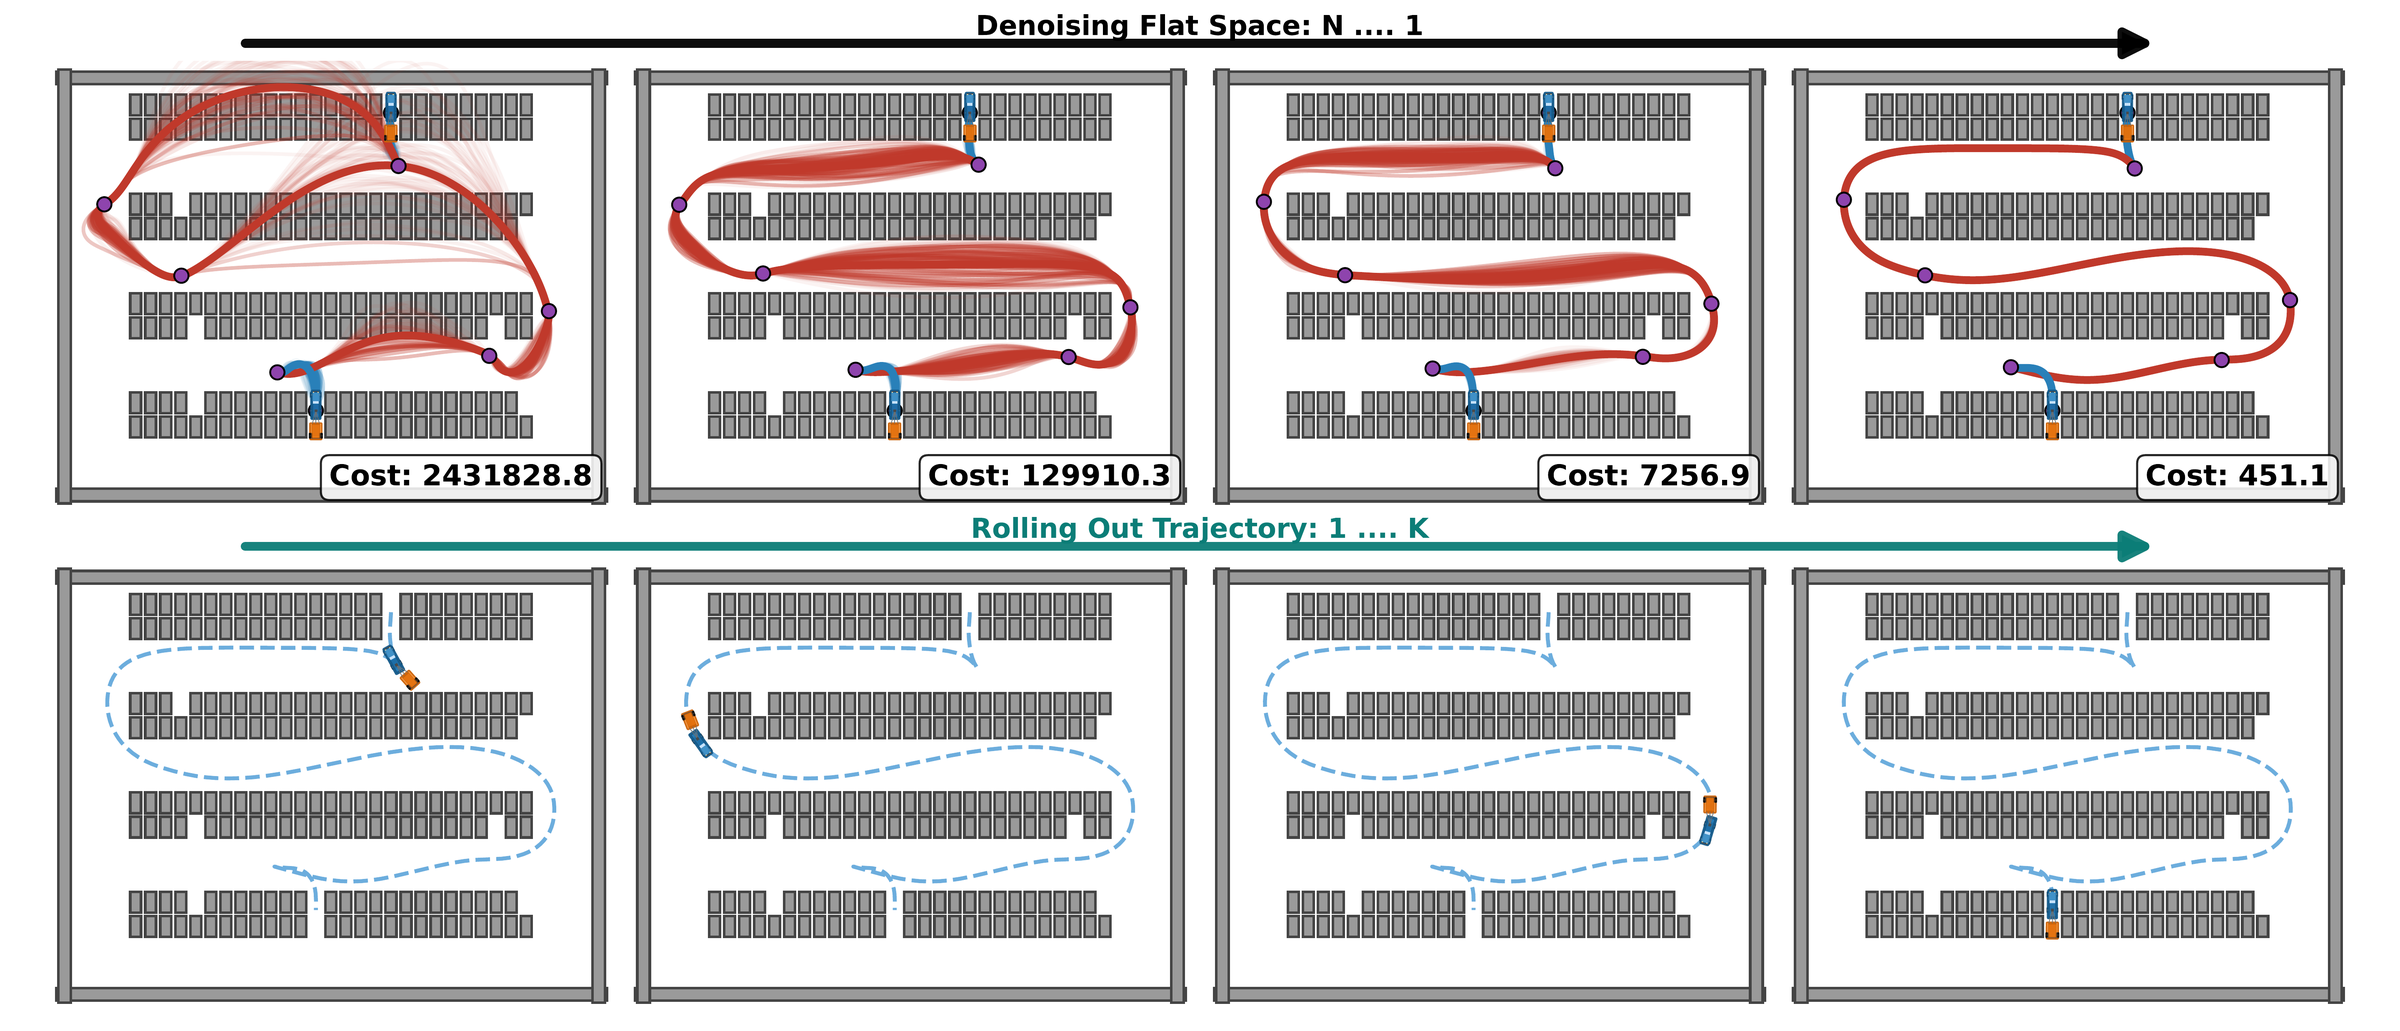
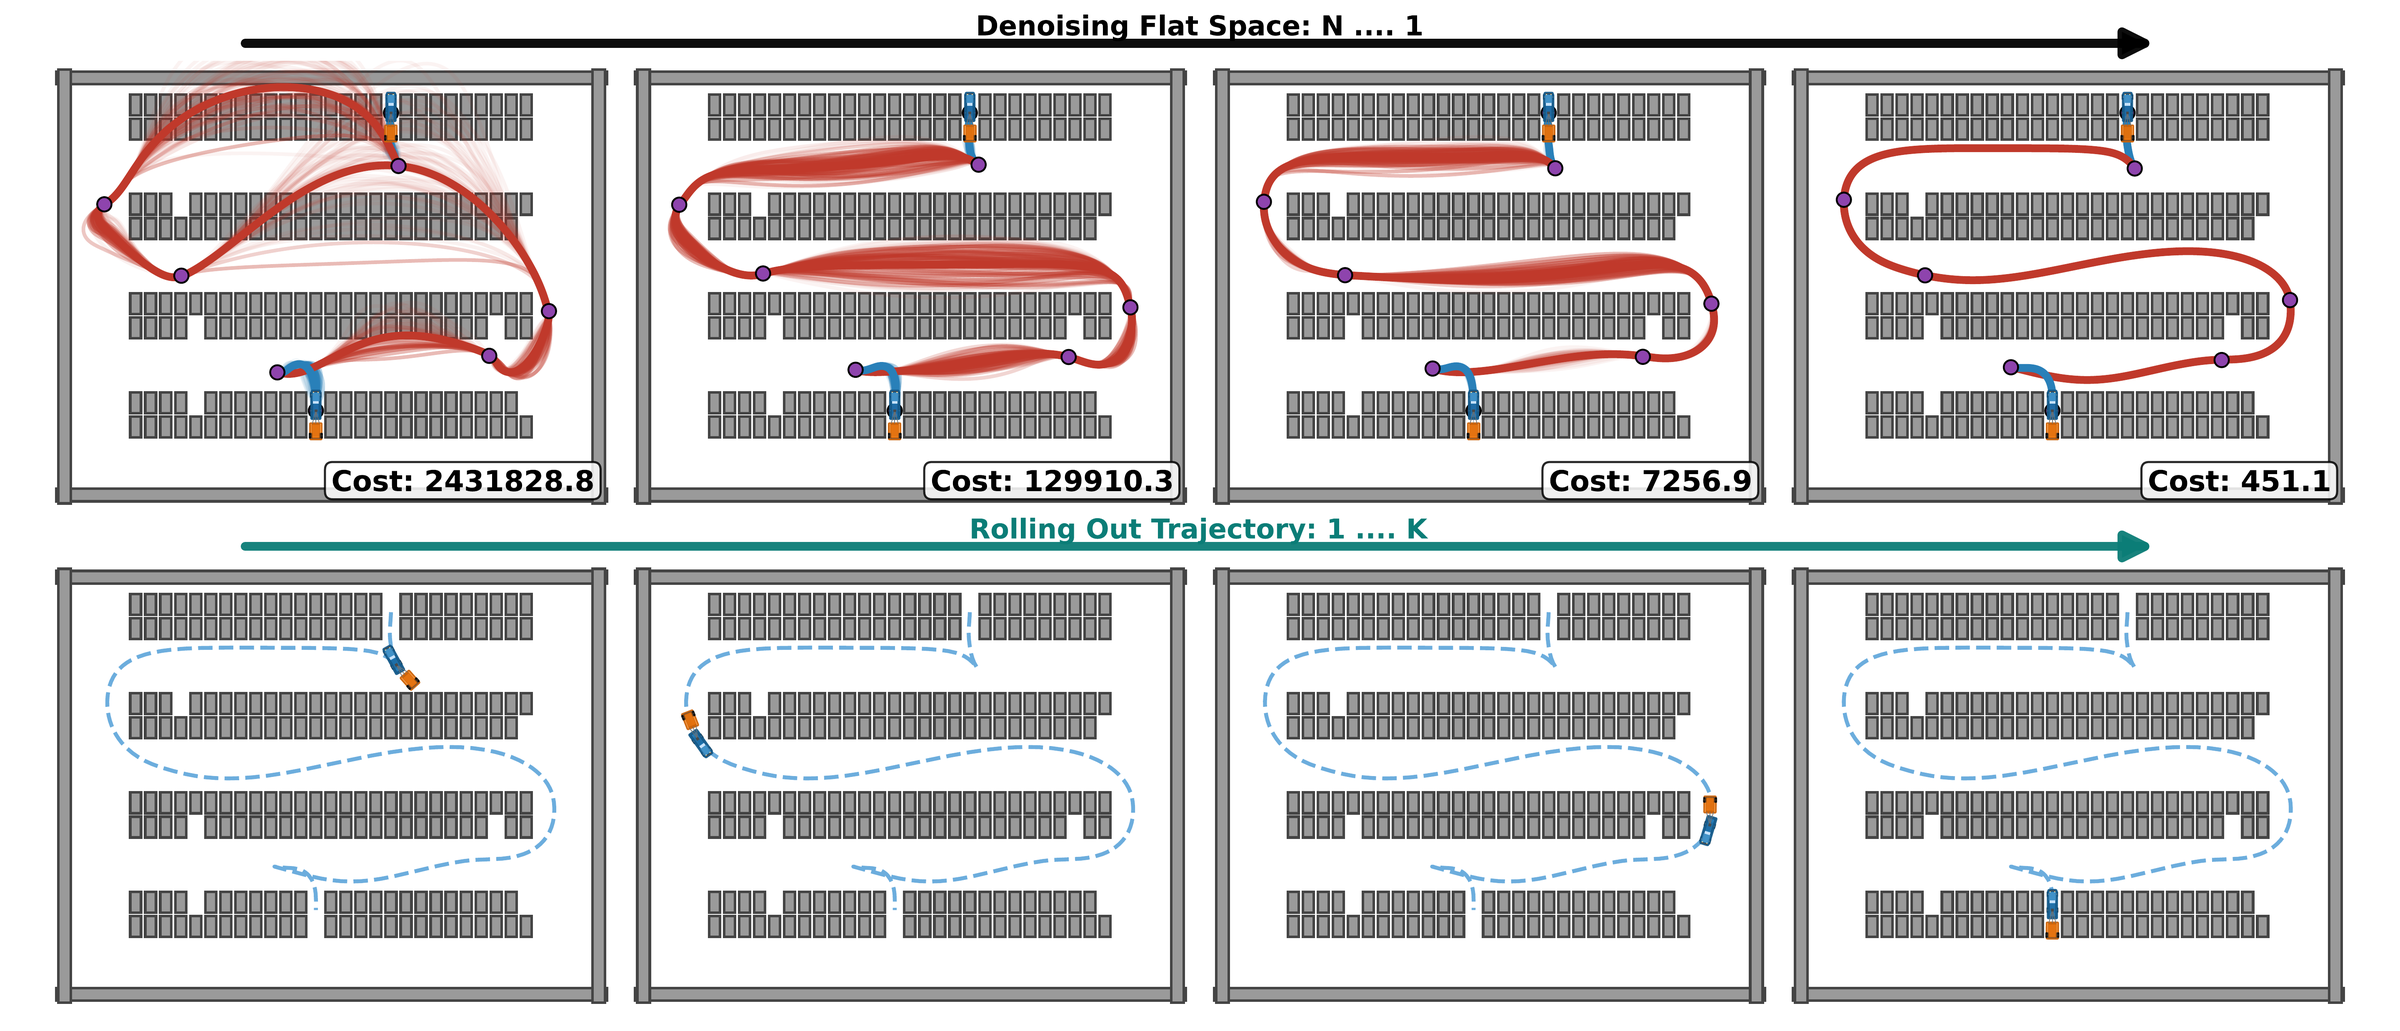
Edit text and figure

diff --git a/index.html b/index.html
@@ -95,8 +95,8 @@
       </ol>
 
       <figure>
-        <a href="static/images/diffusion_story.png?v=2" target="_blank">
-          <img src="static/images/diffusion_story.png?v=2" alt="Top row: flat-space samples of the Hermite segments concentrating over denoising steps N to 1 as the cost decreases, with forward segments in red, reverse segments in blue, and waypoints in purple. Bottom row: the tractor-trailer tracking the final trajectory from step 1 to K." width="2400" height="1031" loading="lazy">
+        <a href="static/images/diffusion_story.png?v=3" target="_blank">
+          <img src="static/images/diffusion_story.png?v=3" alt="Top row: flat-space samples of the Hermite segments concentrating over denoising steps N to 1 as the cost decreases, with forward segments in red, reverse segments in blue, and waypoints in purple. Bottom row: the tractor-trailer tracking the final trajectory from step 1 to K." width="2400" height="1031" loading="lazy">
         </a>
         <figcaption>
           <strong>Fig. 2. Denoising in flat space.</strong> Top: trajectory refinement during DFLAT denoising on a
@@ -110,8 +110,8 @@
 
       <div class="split">
         <figure>
-          <a href="static/images/t_waypoints_before_after.png" target="_blank">
-            <img src="static/images/t_waypoints_before_after.png" alt="T-map scenario before (red) and after (blue) denoising the waypoints and tangents, with a table of maximum steering angle, hitch angle, and steering rate." width="1200" height="1448" loading="lazy">
+          <a href="static/images/t_waypoints_before_after.png?v=2" target="_blank">
+            <img src="static/images/t_waypoints_before_after.png?v=2" alt="T-map scenario before (red) and after (blue) denoising the waypoints and tangents, with a table of maximum steering angle, hitch angle, and steering rate." width="1200" height="1448" loading="lazy">
           </a>
           <figcaption>
             <strong>Fig. 3. Refining a coarse initialization.</strong> Red: trajectory from the search-based prior.
@@ -183,7 +183,7 @@
 
       <h3>DFLAT (ours)</h3>
       <p>
-        DFLAT <strong>plans the entire maneuver at once</strong> over a handful of Hermite segments in flat-output space. It
+        DFLAT <strong>plans the entire maneuver at once</strong> over a small set of Hermite segments in flat-output space. It
         <span class="hl-blue">reaches the goal in both tasks</span>, including the long Parking Lot route, without collision
         or jackknifing.
       </p>
